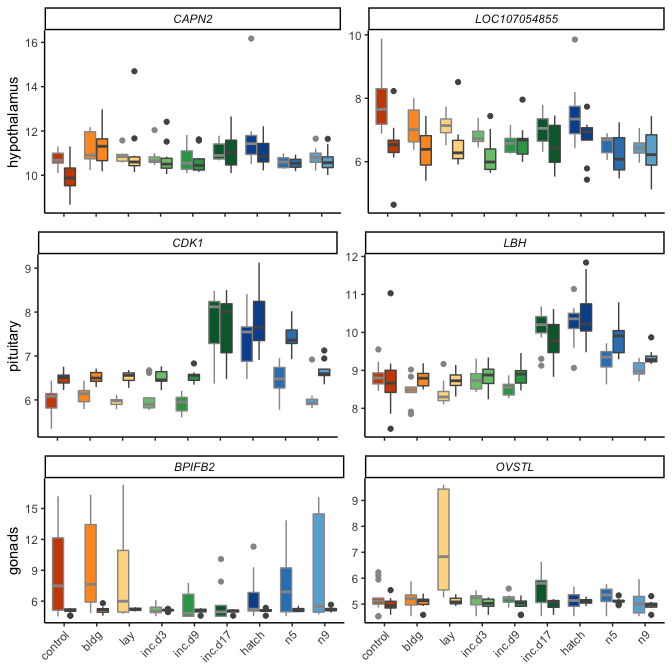
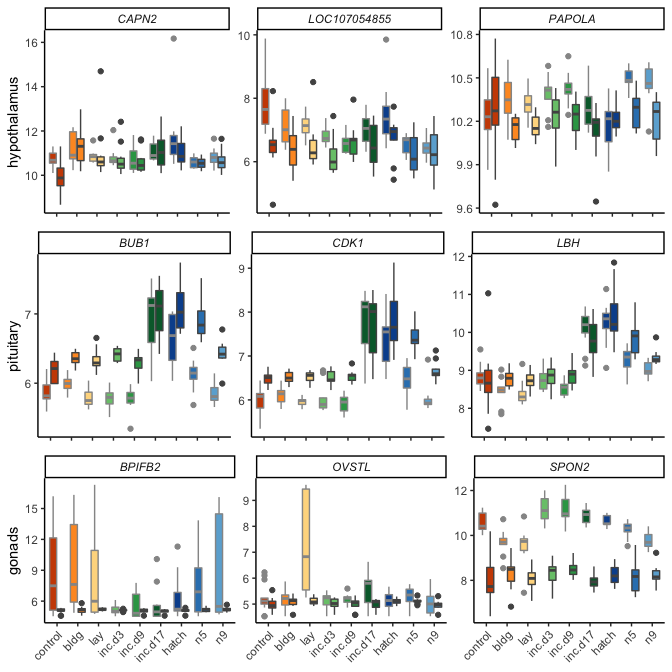
now with top 3 genes

diff --git a/analysis/figure-4.md b/analysis/figure-4.md
@@ -17,22 +17,22 @@
                    names_to = "samples", values_to = "counts") 
 
     hypgenes <- read_csv("../results/DEseq2/female_hypothalamus_hatch_n5_DEGs.csv") %>%
-      arrange(desc(logpadj)) %>% head(., n = 2) %>% pull(gene)
+      arrange(desc(logpadj)) %>% head(., n = 3) %>% pull(gene)
     hypgenes
 
-    ## [1] "CAPN2"        "LOC107054855"
+    ## [1] "CAPN2"        "LOC107054855" "PAPOLA"
 
     pitgenes <- read_csv("../results/DEseq2/female_pituitary_inc.d9_inc.d17_DEGs.csv") %>%
-      arrange(desc(logpadj)) %>% head(., n = 2) %>% pull(gene)
+      arrange(desc(logpadj)) %>% head(., n = 3) %>% pull(gene)
     pitgenes
 
-    ## [1] "LBH"  "CDK1"
+    ## [1] "LBH"  "CDK1" "BUB1"
 
     gongenes <- read_csv("../results/DEseq2/female_gonad_lay_inc.d3_DEGs.csv") %>%
-      arrange(desc(logpadj)) %>% head(., n = 2) %>% pull(gene)
+      arrange(desc(logpadj)) %>% head(., n = 3) %>% pull(gene)
     gongenes
 
-    ## [1] "OVSTL"  "BPIFB2"
+    ## [1] "OVSTL"  "BPIFB2" "SPON2"
 
     plottopgenes <- function(whichgenes, whichtissue, whichsex, mysubtitle){
       candidates  <- allvsd %>%
